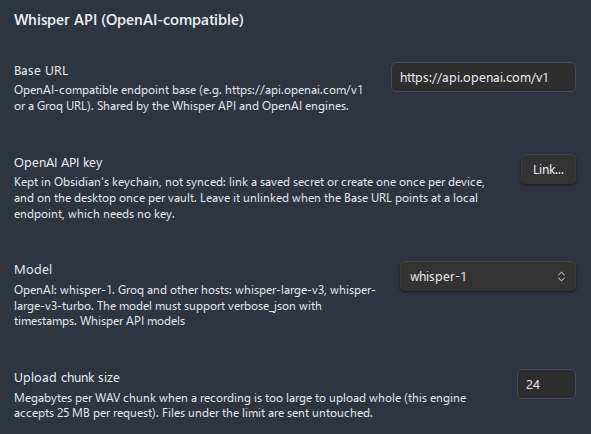
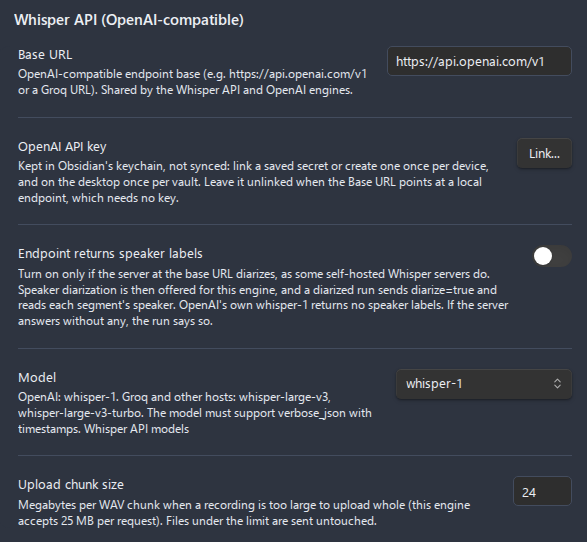
docs(settings): re-render the Whisper API engine figure with the speaker labels row
The figure dated from 2026-10-16 and showed four rows, while the engine
page now carries Endpoint returns speaker labels after its connection
rows. It was rendered again from the settings test double in the dark
theme, cropped to the rows the earlier figure showed, and kept under its
name. The alt text in the three pages that embed it names the row in the
order the page shows it.

diff --git a/docs/settings-reference.md b/docs/settings-reference.md
@@ -217,7 +217,7 @@ Each **API key** row links a secret in Obsidian's keychain rather than holding t
 
 One of the pages under **Engines**, listed whether or not it is the engine transcription currently runs on. Works with OpenAI and any compatible host (for example Groq) by setting the base URL, key, and model. The 25 MB per-request limit is enforced by the API; files at or under it are uploaded in their original container, while larger files are resampled to 16 kHz mono, split into upload-sized WAV chunks, and stitched onto one timeline. Diarization only from a server declared as diarizing (see **Endpoint returns speaker labels** below). See [OpenAI Whisper API key](use-cases/openai-whisper-api-key.md) and [Groq Whisper setup](use-cases/groq-whisper-setup.md).
 
-![Whisper API engine settings with the base URL, API key keychain picker, model, upload chunk size and endpoint speaker labels rows](images/settings-engine-whisper-api.png)
+![Whisper API engine settings with the base URL, the API key keychain picker, the Endpoint returns speaker labels toggle turned off, the model and the upload chunk size rows](images/settings-engine-whisper-api.png)
 
 | Setting                             | What it does                                                                                                                                                                                                                                                                                                                       | Options / range                                                                   | Default                     |
 | ----------------------------------- | ---------------------------------------------------------------------------------------------------------------------------------------------------------------------------------------------------------------------------------------------------------------------------------------------------------------------------------- | --------------------------------------------------------------------------------- | --------------------------- |

diff --git a/docs/use-cases/openai-whisper-api-key.md b/docs/use-cases/openai-whisper-api-key.md
@@ -73,7 +73,7 @@ Open **Settings > Advanced Audio Recorder** and scroll to the **Transcription** 
 7. Back under **Transcription**, set **Language** to `auto` to auto-detect, or to an ISO code (for example `en`, `ru`, `es`).
 8. (Optional) Choose where the transcript goes under **Transcript output > Destination**. The default is **Insert into note**.
 
-![The Whisper API engine page under Engines, with the Base URL, OpenAI API key keychain picker, Model, Upload chunk size and Endpoint returns speaker labels rows](../images/settings-engine-whisper-api.png)
+![The Whisper API engine page under Engines, with the Base URL, the OpenAI API key keychain picker, the Endpoint returns speaker labels toggle turned off, Model and Upload chunk size rows](../images/settings-engine-whisper-api.png)
 
 > **Speaker diarization** stays greyed out and off for the Whisper API engine - OpenAI's Whisper does not return speaker labels. The speaker-related output controls (Include speakers, Merge speaker turns, Speaker format) are disabled to match.
 

diff --git a/docs/transcription.md b/docs/transcription.md
@@ -112,7 +112,7 @@ Behavior and limits:
 
 Getting a key: [OpenAI Whisper API key](use-cases/openai-whisper-api-key.md) · [Groq Whisper setup](use-cases/groq-whisper-setup.md). The **Whisper API models** link in the **Model** row's description points at the [OpenAI speech-to-text guide](https://developers.openai.com/api/docs/guides/speech-to-text).
 
-![The Whisper API engine page under Engines, with the Base URL, OpenAI API key keychain picker, Model, Upload chunk size and Endpoint returns speaker labels rows](images/settings-engine-whisper-api.png)
+![The Whisper API engine page under Engines, with the Base URL, the OpenAI API key keychain picker, the Endpoint returns speaker labels toggle turned off, Model and Upload chunk size rows](images/settings-engine-whisper-api.png)
 
 ### Deepgram
 
